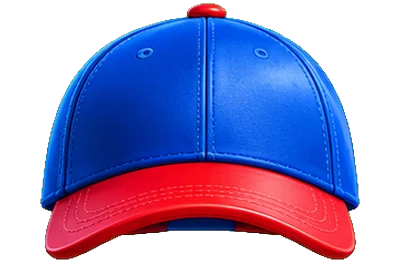
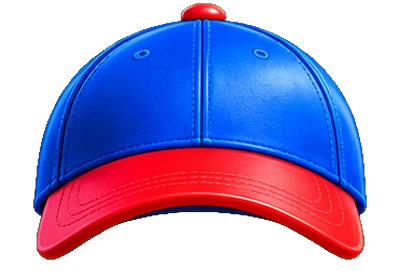
Neue Hüte ohne Innenrand
Claude-Session: https://claude.ai/code/session_01XuEgEKXH5CVDx1qfGUkAmV

diff --git a/public/sw.js b/public/sw.js
@@ -1,7 +1,7 @@
 'use strict';
 /* UNKNOWN – Service Worker: App-Hülle und Bilder offline zwischenspeichern.
    Spielstand läuft ausschließlich über WebSocket und wird nie gecacht. */
-const VERSION = 'unknown-v21';
+const VERSION = 'unknown-v22';
 const SHELL = ['/', '/css/style.css', '/js/app.js', '/data/sets.json', '/data/avatars.json', '/manifest.webmanifest', '/assets/logo.png'];
 
 self.addEventListener('install', (e) => {

diff --git a/tools/process_hats.py b/tools/process_hats.py
@@ -45,7 +45,8 @@ def smile_cut(img, frac):
     edge = H * (1 - frac * (0.35 + 0.65 * xs ** 2))
     a[..., 3] = np.where(ys > edge, 0, a[..., 3])
     out = Image.fromarray(a, 'RGBA'); return out.crop(out.split()[3].getbbox())
-for k in out: out[k] = smile_cut(out[k], CUT.get(k, 0))
+if '--cut' in sys.argv:
+    for k in out: out[k] = smile_cut(out[k], CUT.get(k, 0))  # nur für Raster mit sichtbarem Innenrand
 CW,CH = 400,280
 for id_,hat in out.items():
     s = min(CW/hat.width, CH*0.94/hat.height); hat = hat.resize((max(1,int(hat.width*s)),max(1,int(hat.height*s))), Image.LANCZOS)
